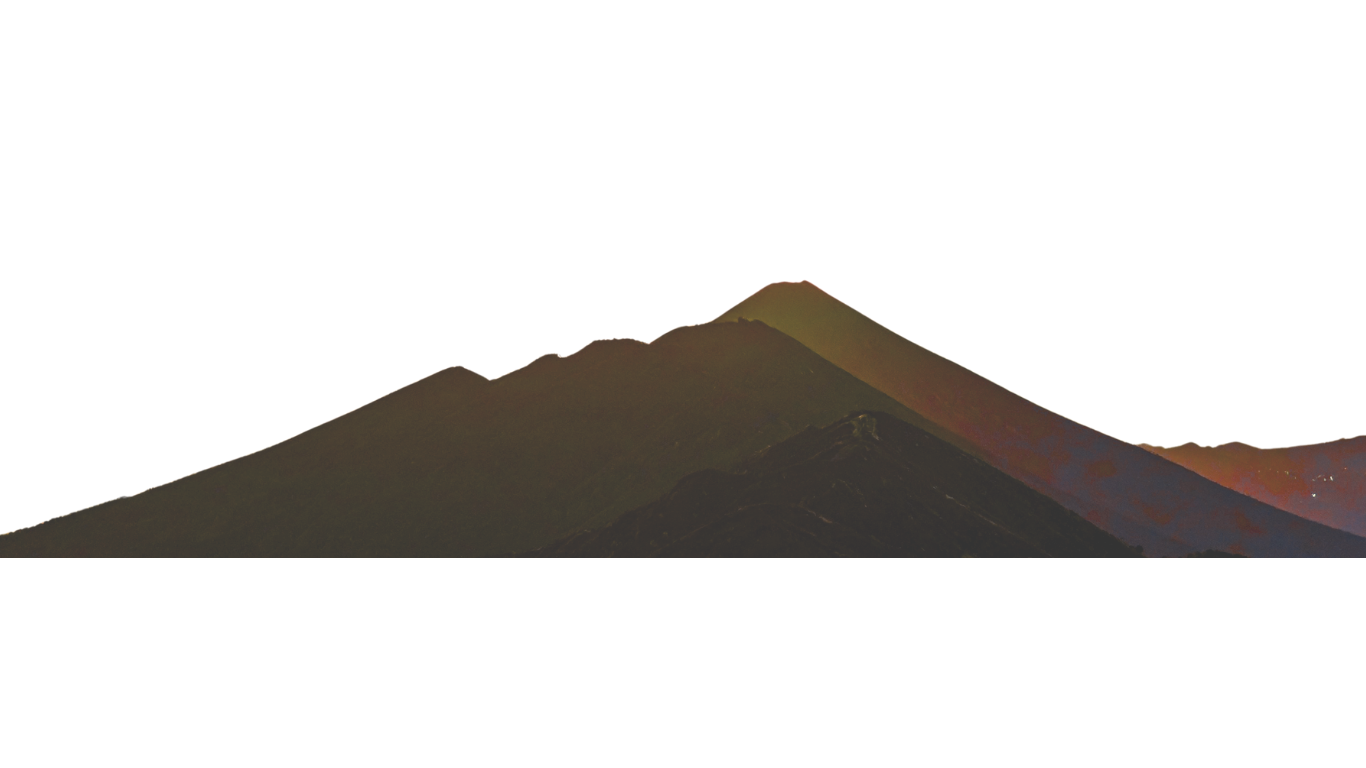
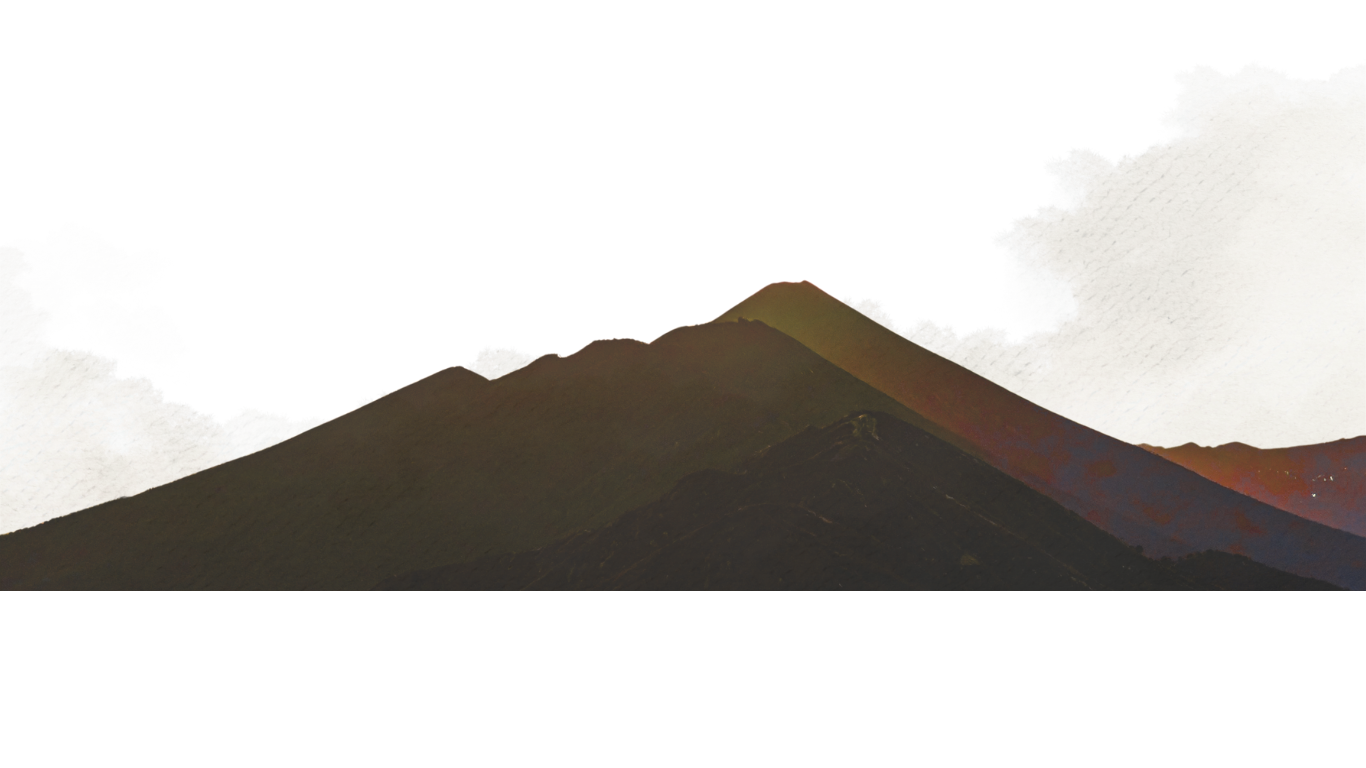
fixed parvati issue and added water bg new

diff --git a/src/components/ParallaxWater.module.css b/src/components/ParallaxWater.module.css
@@ -7,7 +7,7 @@
 .parallaxContainer {
     position: relative;
     width: 100%;
-    height: 100vh;
+    height: 100dvh;
     overflow: hidden;
     background-image: url('/parallax/parallax_water/water-bg.png');
     background-size: cover;
@@ -46,14 +46,27 @@
 }
 
 .moltres {
-    bottom: 35%;
-    left: 10%;
+    bottom: 25%;
+    /* Shifted down from 35% */
+    left: 5%;
+    /* Shifted more left from 10% */
     width: 150px;
 }
 
 .foregroundLayer {
     z-index: 26;
-    /* Below text */
+    bottom: -36%;
+    /* Shifted higher up */
+}
+
+.mountainLayer {
+    bottom: -25%;
+    /* Shift Sun higher up */
+}
+
+.treeLayer {
+    bottom: -30% !important;
+    /* Shift water layer higher up */
 }
 
 /* THE FIX: Rising curtain anchored to screen bottom */
@@ -63,7 +76,7 @@
     width: 100%;
     height: 100vh;
     z-index: 28;
-    top: 84%;
+    top: 72%;
     background-image: url('/parallax/parallax_water/water-bg1.png');
     background-size: cover;
 }
@@ -398,7 +411,8 @@
     }
 
     .heroLogo {
-        width: clamp(150px, 50vw, 250px);
+        width: clamp(120px, 60vw, 220px);
+        max-width: 80%;
     }
 
     .heroSubtitle {
@@ -415,13 +429,16 @@
     .hoOh {
         top: 8%;
         right: 5%;
-        width: 100px;
+        width: 80px;
+        max-width: 20vw;
     }
 
     .moltres {
-        bottom: 25%;
-        left: 3%;
-        width: 90px;
+        bottom: 20%;
+        /* Adjusted for Water theme positions */
+        left: 2%;
+        width: 70px;
+        max-width: 20vw;
     }
 
     .sectionTitle {
@@ -478,11 +495,12 @@
     }
 
     .partnerLogo {
-        height: 10vh;
+        height: 6vh;
+        max-width: 80px;
     }
 
     .marqueeTrack {
-        gap: 40px;
+        gap: 30px;
         padding: 0 20px;
     }
 }
@@ -510,7 +528,7 @@
     }
 
     .marqueeTitle {
-        font-size: 1rem;
+        font-size: 1.1rem;
     }
 
     .partnerLogo {

diff --git a/src/components/Parallax.module.css b/src/components/Parallax.module.css
@@ -9,7 +9,7 @@
 .parallaxContainer {
     position: relative;
     width: 100%;
-    height: 100vh;
+    height: 100dvh;
     overflow: hidden;
     background: transparent;
 }
@@ -404,7 +404,9 @@
     }
 
     .heroLogo {
-        width: clamp(150px, 50vw, 250px);
+        width: clamp(120px, 60vw, 220px);
+        max-width: 80%;
+        /* Ensure no overflow */
     }
 
     .heroSubtitle {
@@ -418,16 +420,21 @@
         line-height: 1.4;
     }
 
+    /* Compressed images for mobile */
     .hoOh {
         top: 8%;
         right: 5%;
-        width: 100px;
+        width: 80px;
+        /* Reduced from 100px */
+        max-width: 20vw;
     }
 
     .moltres {
         bottom: 25%;
         left: 3%;
-        width: 90px;
+        width: 70px;
+        /* Reduced from 90px */
+        max-width: 20vw;
     }
 
     .sectionTitle {
@@ -484,11 +491,13 @@
     }
 
     .partnerLogo {
-        height: 10vh;
+        height: 6vh;
+        /* Reduced from 10vh */
+        max-width: 80px;
     }
 
     .marqueeTrack {
-        gap: 40px;
+        gap: 30px;
         padding: 0 20px;
     }
 }

diff --git a/src/pages/index.js b/src/pages/index.js
@@ -7,6 +7,7 @@ import KantoPokemonQuiz from '@/components/KantoPokemonQuiz.tsx';
 import AboutPokedex from '@/components/AboutPokedex.tsx';
 import PrizesSection from '@/components/PrizesSection.tsx';
 import ProfessorOakIntro from '@/components/ProfessorOakIntro.tsx';
+import MusicPlayer from '@/components/MusicPlayer.tsx';
 
 function Home() {
   const [showIntro, setShowIntro] = useState(true); // Force intro to always show initially
@@ -45,10 +46,10 @@ function Home() {
 
   return (
     <>
-      {showIntro && <ProfessorOakIntro onComplete={handleIntroComplete} />}
-      {!showIntro && !selectedType && <StarterSelection onSelect={handleTypeSelect} />}
+      {!selectedType && <StarterSelection onSelect={handleTypeSelect} />}
       {selectedType && (
         <>
+          <MusicPlayer type={selectedType} />
           <Parallax type={selectedType} />
           {/* Continuous overlay wrapper for all sections after hero */}
           <div style={{ position: 'relative', marginTop: '-1px' }}>

diff --git a/src/components/ParallaxGrass.module.css b/src/components/ParallaxGrass.module.css
@@ -7,7 +7,7 @@
 .parallaxContainer {
     position: relative;
     width: 100%;
-    height: 100vh;
+    height: 100dvh;
     overflow: hidden;
     background-image: url('/parallax/parallax_grass/grassbg.png');
     background-size: cover;
@@ -407,7 +407,8 @@
     }
 
     .heroLogo {
-        width: clamp(150px, 50vw, 250px);
+        width: clamp(120px, 60vw, 220px);
+        max-width: 80%;
     }
 
     .heroSubtitle {
@@ -424,13 +425,15 @@
     .hoOh {
         top: 8%;
         right: 5%;
-        width: 100px;
+        width: 80px;
+        max-width: 20vw;
     }
 
     .moltres {
         bottom: 25%;
         left: 3%;
-        width: 90px;
+        width: 70px;
+        max-width: 20vw;
     }
 
     .sectionTitle {
@@ -487,11 +490,12 @@
     }
 
     .partnerLogo {
-        height: 10vh;
+        height: 6vh;
+        max-width: 80px;
     }
 
     .marqueeTrack {
-        gap: 40px;
+        gap: 30px;
         padding: 0 20px;
     }
 }

diff --git a/src/components/MusicPlayer.tsx b/src/components/MusicPlayer.tsx
@@ -82,7 +82,7 @@ export default function MusicPlayer({ type }: MusicPlayerProps) {
     };
 
     return (
-        <div className="fixed top-60 left-60 z-50 font-sans">
+        <div className="fixed bottom-4 right-4 md:top-6 md:right-6 md:bottom-auto z-50 font-sans max-w-[calc(100vw-2rem)]">
             <div className={`
                 flex items-center gap-3 pl-3 pr-4 py-2
                 ${colors.glass} backdrop-blur-md

diff --git a/src/styles/globals.css b/src/styles/globals.css
@@ -42,6 +42,7 @@ html {
   overflow-x: hidden;
   /* Prevent horizontal scroll globally */
   width: 100%;
+  min-height: 100dvh;
 }
 
 body {
@@ -53,6 +54,7 @@ body {
   width: 100%;
   position: relative;
   /* Establish positioning context */
+  min-height: 100dvh;
 }
 
 /* ===== HERO WRAPPER ===== */

diff --git a/src/components/Parallax.tsx b/src/components/Parallax.tsx
@@ -94,7 +94,6 @@ export default function Parallax({ type }: ParallaxProps) {
 
   return (
     <div className={styles.wrapper}>
-      <MusicPlayer type={type} />
       <div
         ref={parallaxOuterRef}
         className={styles.parallaxContainer}
